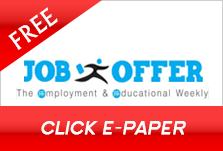
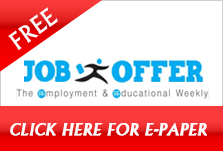
to change img nd link

Changed region(s): [[0.0269, 0.7947, 0.9417, 0.9007]]

diff --git a/index.html b/index.html
@@ -1,19 +1,39 @@
 <!DOCTYPE html>
 <html lang="en-us">
-    <head>
-        <title>Job offer </title>
-        <meta name="viewport" content="width=device-width, initial-scale=1.0, maximum-scale=1.0, user-scalable=no">
-        <link rel='stylesheet' type='text/css' href="css/bootstrap.css"/>
+	<head>
+		<meta charset="utf-8">
+                    <title>SEDAR WAVE TEST </title>
+		<meta name="description" content="">
+		<meta name="author" content="">
+                <meta name="viewport" content="width=device-width, initial-scale=1.0, maximum-scale=1.0, user-scalable=no">
+                <link rel="stylesheet" type="text/css" media="screen" href="css/bootstrap.min.css">
+                <link rel="stylesheet" type="text/css" media="screen" href="css/smartadmin-production.css">
+                <link rel='stylesheet' type='text/css' href="css/bootstrap.css"/>
         <link rel='stylesheet' type='text/css' href="css/font-awesome.css"/>
         <link rel='stylesheet' type='text/css' href="css/animate.css"/>
         <link rel='stylesheet' type='text/css' href="css/job_offer_style.css"/>
-    </head>
-    <body>
-        <script type="text/javascript">
-            app.initialize();
-        </script>
-        
-        <header class="container wow fadeInUp" style="padding-left: 0px;padding-right: 0px;" >
+                <link rel="shortcut icon" href="img/favicon/favicon.ico" type="image/x-icon">
+		<link rel="icon" href="img/favicon/favicon.ico" type="image/x-icon">
+		<script src="js/jquery-2.0.2.min.js"></script>
+		<script type="text/javascript" charset="utf-8">
+		
+
+  
+  
+
+
+
+
+
+
+
+ 
+
+    </script>
+
+        </head>
+        <body id="login" class="animated " >
+            <header class="container wow fadeInUp" style="padding-left: 0px;padding-right: 0px;" >
             <div class="col-lg-4 col-sm-4">
                 <img class="img-responsive" src="img/logo.png" alt="logo" style="padding:10px" />
             </div>
@@ -63,7 +83,7 @@
                 <div class="col-md-3 col-sm-6">
                     <div data-wow-delay="1s" class="wow block fadeInRight ">
                         <center>
-                            <a onclick="e_paper()">
+                            <a onclick="e_paper()" target="_blank" >
                                 <img class="img-responsive" src="img/E-paper.png" />
                             </a>
                         </center>
@@ -72,7 +92,7 @@
                 <div class="col-md-3 col-sm-6">
                     <div data-wow-delay="1.3s" class="wow block fadeInRight " >
                         <center>
-                            <a onclick="paid()">
+                            <a onclick="paid()" target="_blank" >
                                 <img class="img-responsive" src="img/paid-epaper.png" />
                             </a>
                         </center>
@@ -81,8 +101,8 @@
                 <div class="col-md-3 col-sm-6">
                     <div data-wow-delay="1.6s" class="wow block fadeInRight " >
                         <center>
-                            <a onclick="tamil_jobs()">
-                                <img class="img-responsive" src="img/tamil-job.png" />
+                             <a onclick="newspaper()" target="_blank" >
+                                <img class="img-responsive" src="img/newspaper.png" />
                             </a>
                         </center>
                     </div>
@@ -90,8 +110,8 @@
                  <div class="col-md-3 col-sm-6">
                     <div data-wow-delay="1.9s" class="wow block fadeInRight " >
                         <center>
-                            <a onclick="pondy_jobs()">
-                                <img class="img-responsive" src="img/pondy-job.png" />
+                            <a onclick="tamil_jobs()" target="_blank" >
+                                <img class="img-responsive" src="img/tamil-job.png" />
                             </a>
                         <center>
                     </div>
@@ -103,8 +123,8 @@
                 <div class="col-md-3 col-sm-6">
                     <div data-wow-delay="1s" class="block wow fadeInRight " >
                         <center>
-                            <a onclick="newspaper()">
-                                <img class="img-responsive" src="img/newspaper.png" />
+                            <a onclick="pondy_jobs()" target="_blank" >
+                                <img class="img-responsive" src="img/pondy-job.png" />
                             </a>
                         </center>
                     </div>  
@@ -112,7 +132,7 @@
                 <div class="col-md-3 col-sm-6">
                     <div data-wow-delay="1.3s" class="block wow fadeInRight " >
                         <center>
-                            <a onclick="pdfdownloader()">
+                            <a onclick="download()" target="_blank" >
                                 <img class="img-responsive" src="img/forlatest-issu.png" />
                             </a>
                         </center>
@@ -130,7 +150,7 @@
                         <center>
                             <script type="text/javascript" src="http://widget.supercounters.com/flag.js"></script>
                             <script type="text/javascript">sc_flag(617178,"FFFFFF","000000","ffffff",3,12,0,0)</script><br>
-                            <noscript><a href="http://www.supercounters.com/">Flag Counter</a></noscript>
+                            <noscript><a href="http://www.supercounters.com/" target="_blank" >Flag Counter</a></noscript>
                         </center>
                     </div>
                 </div>
@@ -153,6 +173,10 @@
                 window.open("http://www.readwhere.com/publication/6313/JOB-OFFER","_blank", "location=no");
             }
             
+            function newspaper(){
+                window.open("http://joboffer.co.in/Subscription%20Form%20Rs%2020.pdf","_system", "location=yes");
+            }
+            
             function tamil_jobs(){
                 window.open("http://www.tamilnadujobs.in/","_blank", "location=no");
             }
@@ -161,20 +185,36 @@
                 window.open("http://www.puducherryjobs.in/","_blank", "location=no");
             }
             
-            function newspaper(){
-                window.open("http://www.readwhere.com/publication/6313/JOB-OFFER","_blank", "location=no");
+            function download(){
+                window.open("http://joboffer.co.in/jo_classi.Pdf", '_system', 'location=yes');
+               //http://joboffer.co.in/demo/jo_classi.Pdf
             }
-            
-            function pdfdownloader(){
-                window.open("http://www.readwhere.com/publication/6313/JOB-OFFER","_blank", "location=no");
-            }
-            
-            
             
         </script>
         <script type="text/javascript" src="js/jquery-2.1.3.min.js"></script>
         <script type="text/javascript" src="js/bootstrap.js"></script>
         <script type="text/javascript" src="js/wow.min.js"></script>
         <script type="text/javascript" src="js/cordova-2.9.0.js"> </script>
-    </body>
+<script>
+
+var user_name=localStorage.getItem("user_name");
+if(user_name!=null){
+	window.open('scan.html', '_blank','location=no');
+
+}
+
+
+
+</script>
+
+
+<script type="text/javascript" src="cordova.js"></script>
+<!--<script type="text/javascript" src="jquery.md5.js"></script>-->
+<script type="text/javascript" src="js/md5.js"></script>
+<script type="text/javascript" src="barcodescanner.js"></script>
+<script type="text/javascript" src="js/index.js"></script>
+<script type="text/javascript" src="js/function.js"></script> 
+<script type="text/javascript" src="js/main.js"></script>
+<script type="text/javascript" src="js/tablerowcount.js"></script>
+        </body>
 </html>
